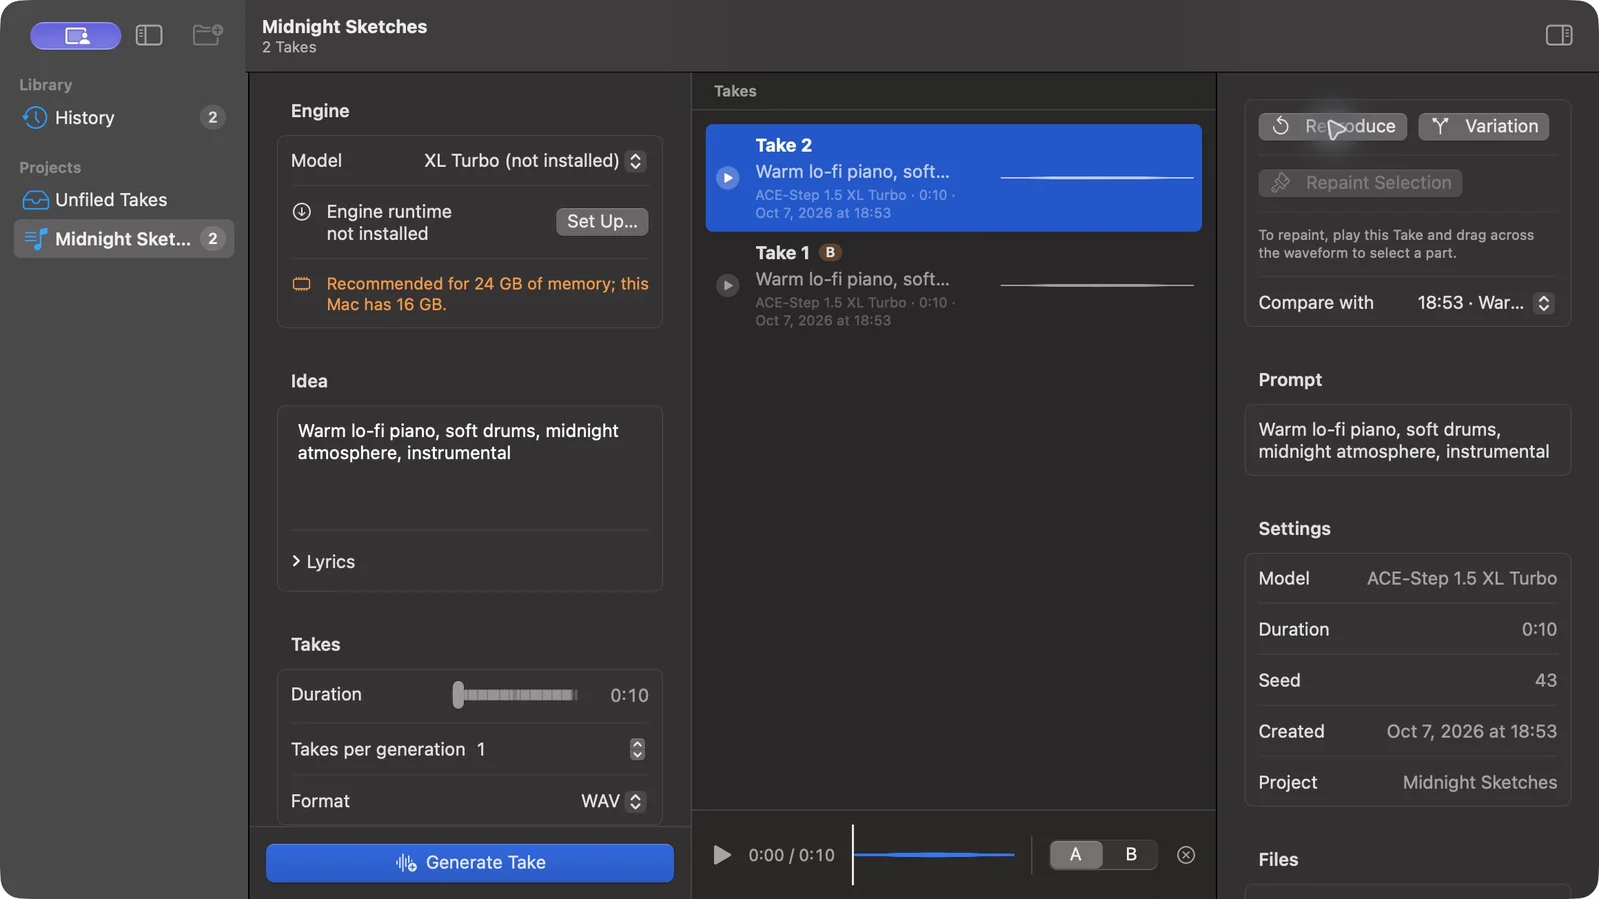
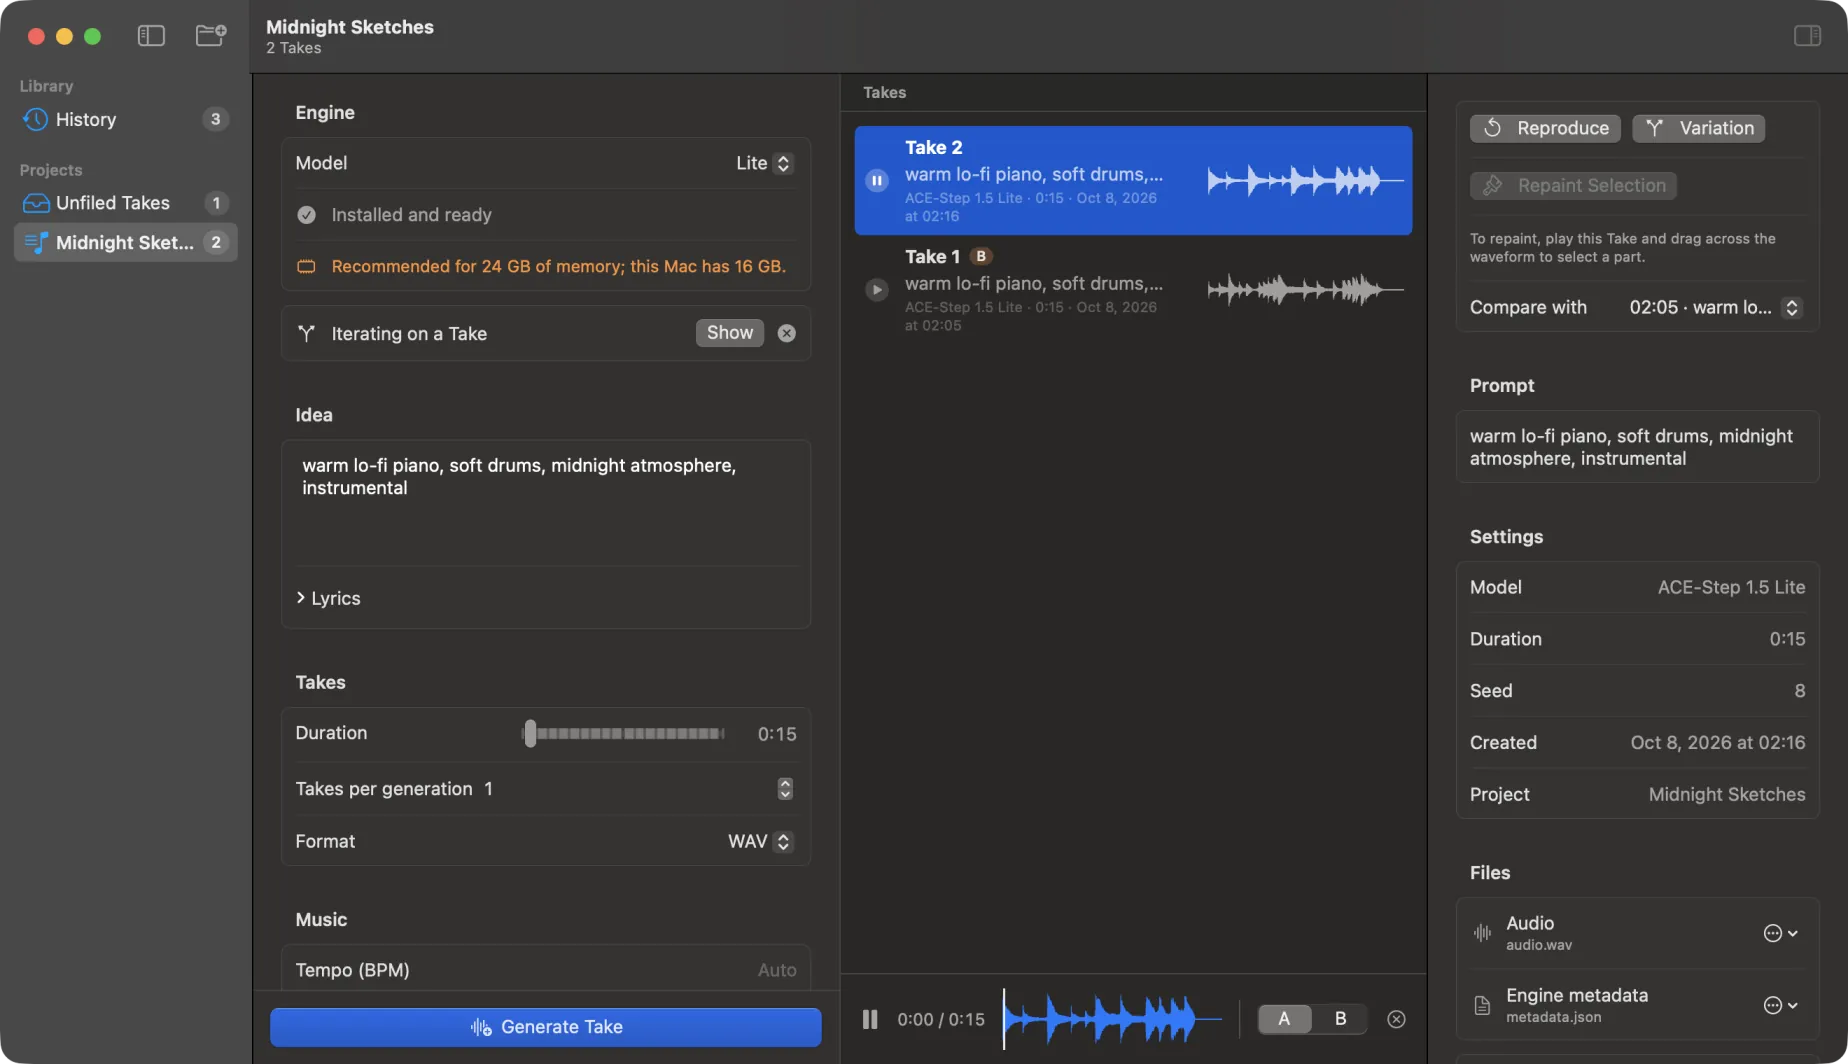
feat: refresh OpenLoop shot and tighten the CLI contract
Use the README workspace screenshot, center the OpenKara window,
and drop the unused CLI contract rows.

diff --git a/.vitepress/theme/HubLayout.vue b/.vitepress/theme/HubLayout.vue
@@ -72,7 +72,7 @@ function asset(src: string) {
 const contract = [
   {
     term: 'Stable JSON',
-    text: 'Versioned JSON on stdout, logs on stderr, and documented exit codes, so scripts and agents can parse every result.',
+    text: 'Versioned JSON on stdout, logs on stderr, and documented exit codes.',
     code: '--json',
   },
   {
@@ -83,15 +83,6 @@ const contract = [
   {
     term: 'Single binary',
     text: 'No runtime, no containers, no dependencies to install first.',
-  },
-  {
-    term: 'Cross-platform',
-    text: 'Linux, macOS, and Windows, on amd64 and arm64.',
-  },
-  {
-    term: 'Homebrew',
-    text: 'Every CLI installs from one tap.',
-    code: 'brew tap thedavidweng/homebrew-tap',
   },
 ]
 </script>
@@ -291,9 +282,18 @@ const contract = [
           <div class="contract-head">
             <h3 class="contract-title">One shared contract</h3>
             <p>Learn one tool and you know how the rest behave. Scripts and agents get the same guarantees everywhere.</p>
+            <dl class="spec">
+              <div class="spec-row">
+                <dt class="spec-term">{{ contract[0].term }}</dt>
+                <dd class="spec-detail">
+                  <p>{{ contract[0].text }}</p>
+                  <code v-if="contract[0].code" class="spec-code">{{ contract[0].code }}</code>
+                </dd>
+              </div>
+            </dl>
           </div>
           <dl class="spec">
-            <div v-for="item in contract" :key="item.term" class="spec-row">
+            <div v-for="item in contract.slice(1)" :key="item.term" class="spec-row">
               <dt class="spec-term">{{ item.term }}</dt>
               <dd class="spec-detail">
                 <p>{{ item.text }}</p>
@@ -793,13 +793,13 @@ h2 {
 }
 
 .shot-flat .shot-stage {
-  align-items: flex-end;
-  padding: 24px 24px 0;
+  align-items: center;
+  padding: 28px 32px;
 }
 
 .shot-flat .shot-image {
   height: auto;
-  border-radius: 10px 10px 0 0;
+  border-radius: 10px;
   box-shadow: 0 12px 40px rgba(0, 0, 0, 0.22);
 }
 
@@ -809,7 +809,7 @@ h2 {
   }
 
   .shot-flat .shot-stage {
-    padding: 48px 64px 0;
+    padding: 36px 72px;
   }
 
   .shot-flat .shot-image {
@@ -983,16 +983,15 @@ h2 {
   color: var(--vp-c-text-2);
 }
 
+.contract-head .spec {
+  margin-top: 28px;
+}
+
 @media (min-width: 960px) {
   .contract-grid {
-    grid-template-columns: minmax(0, 1fr) minmax(0, 1.6fr);
-    gap: 64px;
-  }
-
-  .contract-head {
-    position: sticky;
-    top: calc(var(--vp-nav-height) + 32px);
-    align-self: start;
+    grid-template-columns: minmax(0, 1fr) minmax(0, 1fr);
+    gap: 48px 72px;
+    align-items: start;
   }
 }
 

diff --git a/.vitepress/projects.ts b/.vitepress/projects.ts
@@ -150,7 +150,7 @@ export const projects: Project[] = [
     platforms: 'macOS 15+, Apple Silicon',
     install: 'brew install --cask thedavidweng/tap/openloop',
     stack: ['Swift', 'SwiftUI'],
-    screenshot: { src: 'hub/openloop.webp', width: 1599, height: 899 },
+    screenshot: { src: 'hub/openloop.webp', width: 1848, height: 1064 },
     external: true,
   },
   {
